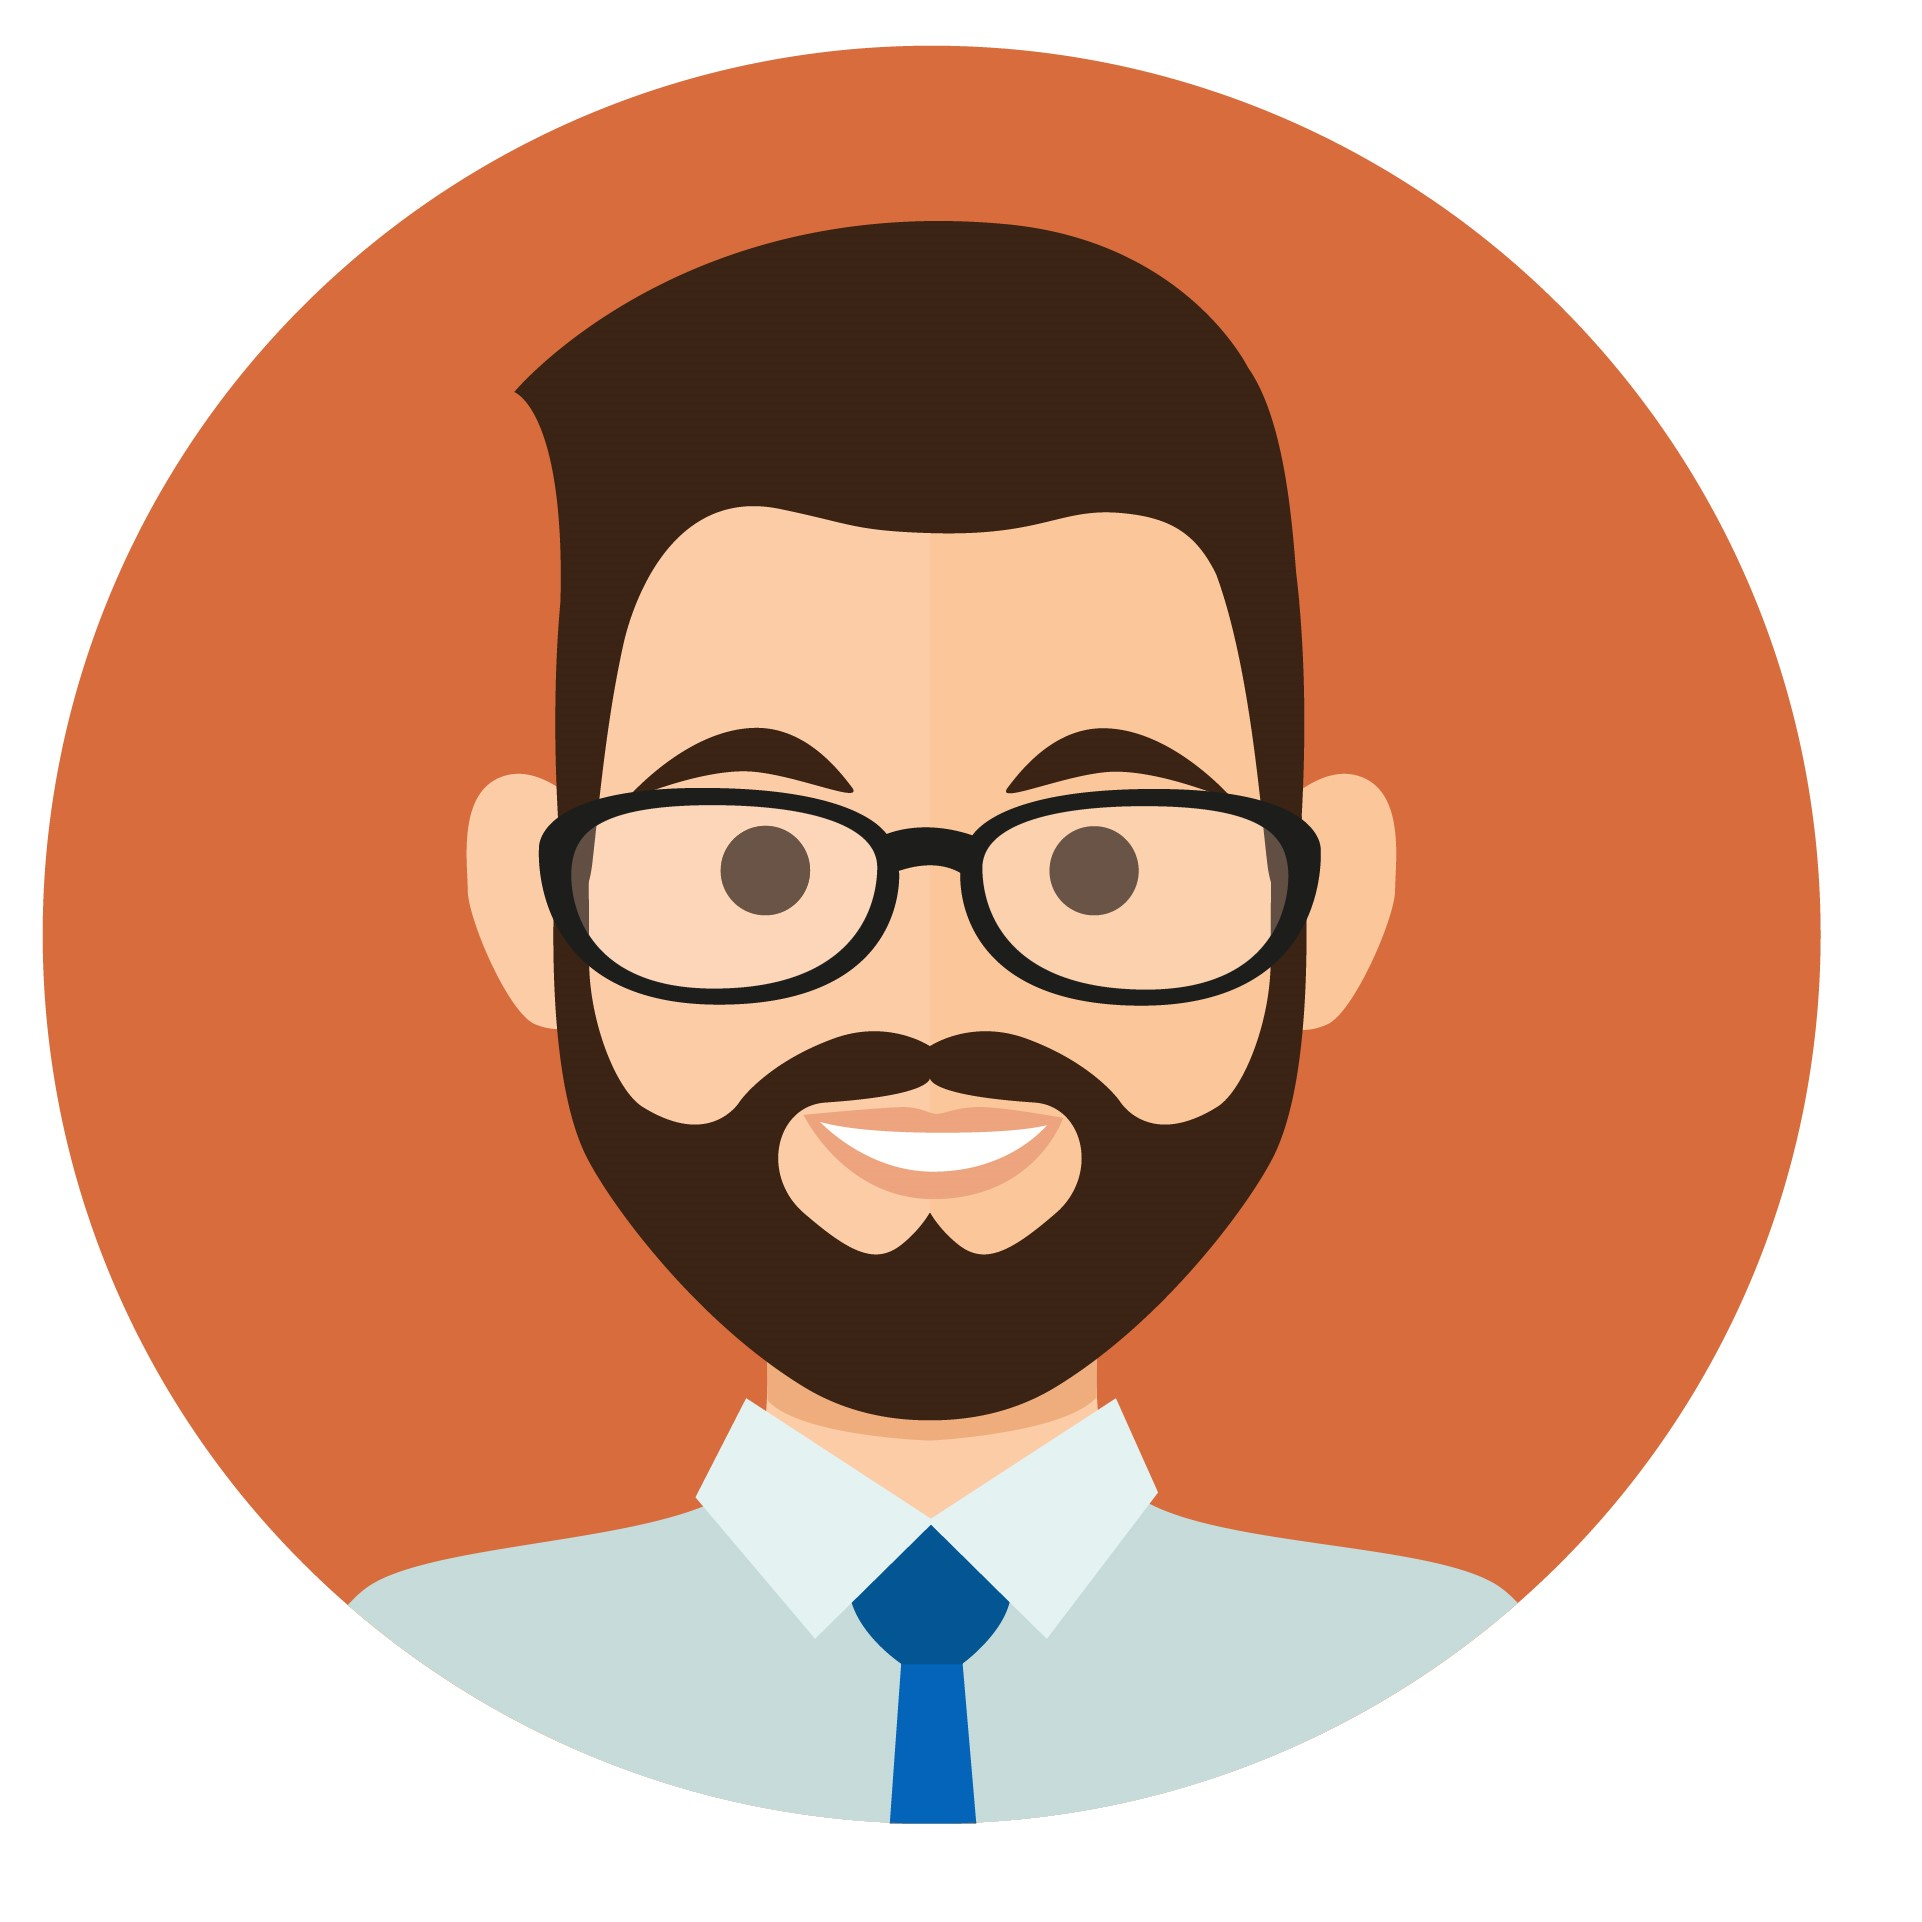
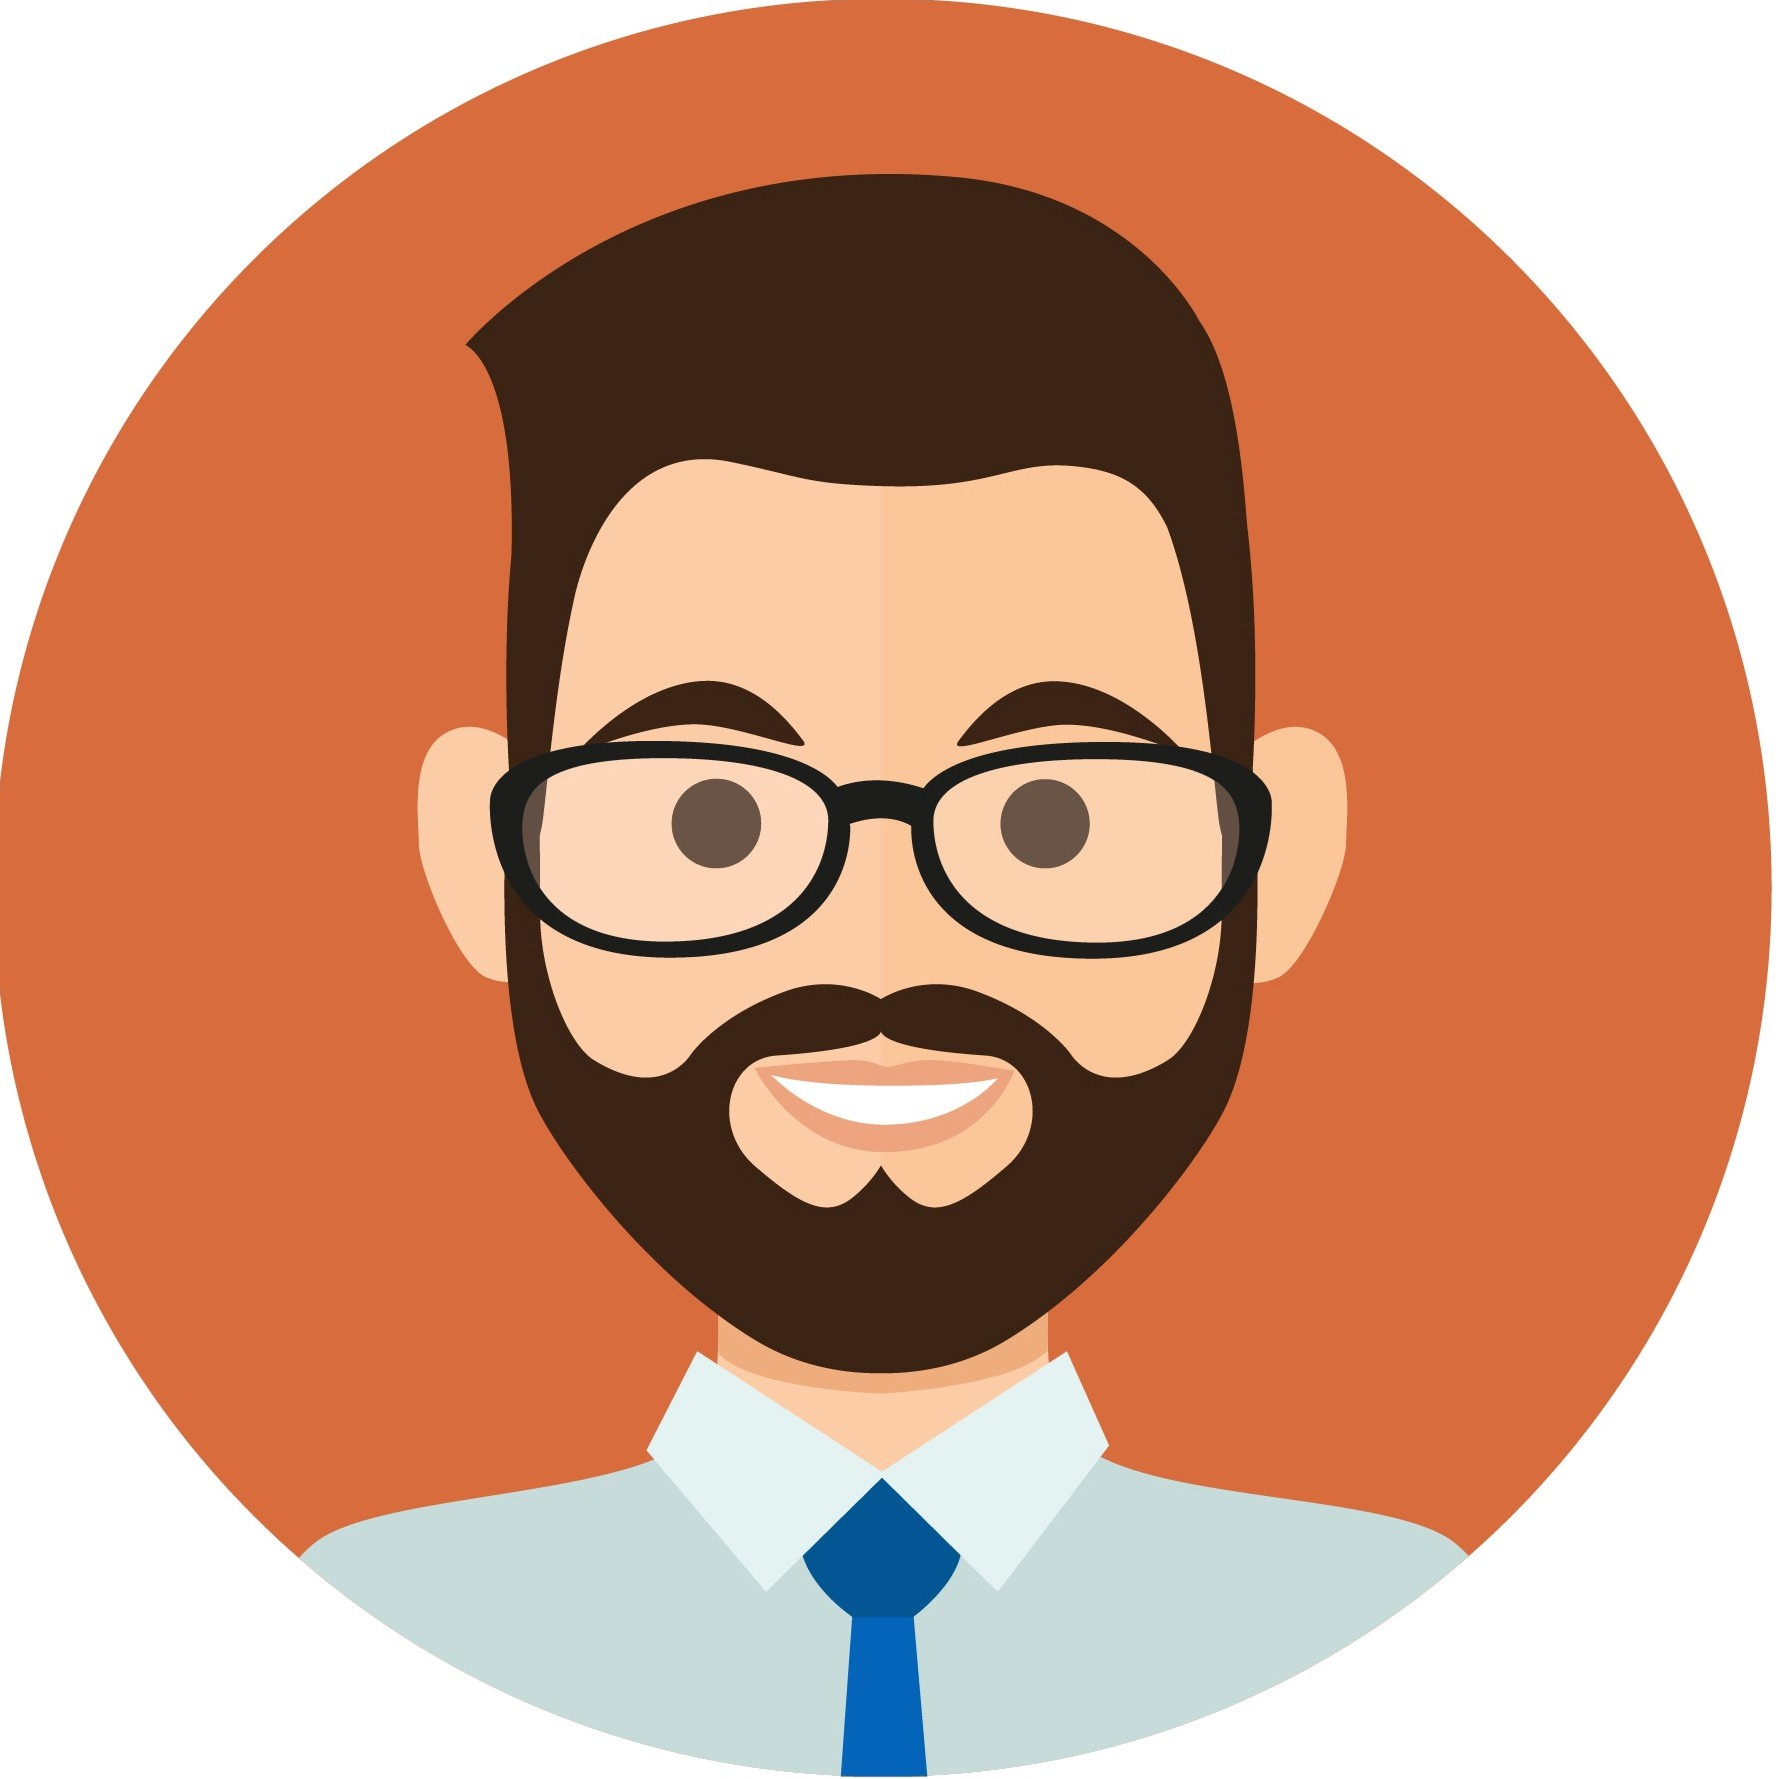
edited

diff --git a/src/layout/Layout.jsx b/src/layout/Layout.jsx
@@ -22,40 +22,39 @@ function Layout({ children }) {
       {children}
     </div>
   ) : (
-    <div className="min-h-screen flex flex-col justify-between">
-      <div>
+    <div className="min-h-screen flex flex-col justify-between overflow-x-hidden">
+      <div className="overflow-auto">
         <Header open={open} setOpen={setOpen} />
-        <div className={`flex relative min-h-screen size`}>
+
+        <div className="flex size">
           {/* hamburger menu */}
-          <div className="bg-bg_main min-h-screen transition-transform duration-300 ease-in-out rounded-lg my-2 mr-2">
-            <div className={`sticky top-0 overflow-auto flex flex-col h-fit mr-2`}>
+          <div className="bg-bg_main min-h-screen transition-all duration-300 ease-in-out rounded-lg my-2 mr-2">
+            <div className="flex flex-col h-fit">
               {userAttr().role === "ADMIN"
                 ? pageNames.map((item, index) => (
                     <Link key={index} to={item.path}>
-                      <h2
+                      <div
                         className={`${
                           location.pathname === item.path
                             ? "font-bold text-primary"
                             : "text-secondary"
                         } ${
-                          open ? "pl-20" : "pl-6"
-                        } p-4 cursor-pointer whitespace-nowrap transition duration-300 ease-in-out`}
+                          open ? "pl-12" : null
+                        } py-4 px-6 cursor-pointer whitespace-nowrap flex items-center gap-2 transition-all duration-300 ease-in-out`}
                       >
-                        {open ? (
-                          <div className="flex items-center gap-2">
-                            {/* icon */}
-                            {location.pathname === item.path
-                              ? item.actIcon
-                              : item.inactIcon}
-                            {item.name}
-                          </div>
-                        ) : // icon
-                        location.pathname === item.path ? (
-                          item.actIcon
-                        ) : (
-                          item.inactIcon
-                        )}
-                      </h2>
+                        {/* icon */}
+                        {location.pathname === item.path
+                          ? item.actIcon
+                          : item.inactIcon}
+
+                        <h2
+                          className={`transition-all duration-300 ease-in-out ${
+                            open ? "flex" : "hidden"
+                          }`}
+                        >
+                          {item.name}
+                        </h2>
+                      </div>
                     </Link>
                   ))
                 : pageNames
@@ -95,6 +94,7 @@ function Layout({ children }) {
           {children}
         </div>
       </div>
+      
       <Footer />
     </div>
   );

diff --git a/src/pages/SellProduct.jsx b/src/pages/SellProduct.jsx
@@ -142,7 +142,14 @@ function SellProduct() {
                   (product) => product.count > 0
                 )}
                 selectedOption={currProduct}
-                setSelectedOption={setCurrProduct}
+                setSelectedOption={(option) => {
+                  setCurrProduct(option);
+                  setInfoToSell({
+                    sellPrice: "",
+                    count: "",
+                    buyerInfo: null,
+                  });
+                }}
               />
             )}
 
@@ -230,7 +237,10 @@ function SellProduct() {
                 title="مشتریان"
                 options={buyersData?.data}
                 selectedOption={selectedCustomer}
-                setSelectedOption={setSelectedCustomer}
+                setSelectedOption={(option) => {
+                  setSelectedCustomer(option);
+                  setNewUser(null);
+                }}
               />
             )}
 
@@ -375,7 +385,10 @@ function SellProduct() {
                 { id: 3, name: "نقد" },
               ]}
               selectedOption={payMethod}
-              setSelectedOption={setPayMethod}
+              setSelectedOption={(option) => {
+                setPayMethod(option);
+                setConfirmerCode(null);
+              }}
             />
 
             {/* payment confirmer */}
@@ -419,7 +432,7 @@ function SellProduct() {
                 <div className="flex items-center gap-1">
                   <input
                     type="radio"
-                    name="type"
+                    name="settlement"
                     value="بلی"
                     onClick={() => setSettlement("بلی")}
                     checked={settlement === "بلی"}
@@ -430,7 +443,7 @@ function SellProduct() {
                 <div className="flex items-center gap-1">
                   <input
                     type="radio"
-                    name="type"
+                    name="settlement"
                     value="خیر"
                     onClick={() => setSettlement("خیر")}
                     checked={settlement === "خیر"}
@@ -471,7 +484,11 @@ function SellProduct() {
                   type="number"
                   value={discountPrice}
                   placeholder={100000}
-                  onChange={(e) => setDiscountPrice(+e.target.value)}
+                  onChange={(e) =>
+                    +e.target.value <= currProduct?.sell_price
+                      ? setDiscountPrice(+e.target.value)
+                      : setDiscountPrice(currProduct?.sell_price)
+                  }
                 />
               </div>
             </div>
@@ -499,7 +516,7 @@ function SellProduct() {
             </div>
           </div>
 
-          {/* product count */}
+          {/* total price */}
           <div className="flex items-center gap-2 w-fit">
             <label className="text-label_text">مبلغ قابل پرداخت</label>
             <div className="bg-bg_input p-2 rounded-lg">

diff --git a/src/pages/Users.jsx b/src/pages/Users.jsx
@@ -190,7 +190,7 @@ function Users() {
                         ) {
                           setSelectedUser({ op: "u", username: user.number });
                           setUser({ ...user });
-                          setSelRole(user.role)
+                          setSelRole(user.role);
                         } else {
                           setSelectedUser({
                             op: "a",
@@ -203,7 +203,7 @@ function Users() {
                             user_code: "",
                             role: "",
                           });
-                          setSelRole(null)
+                          setSelRole(null);
                         }
                       }}
                     >
@@ -439,9 +439,25 @@ function Users() {
           <div className="flex items-center justify-end">
             <button
               className={`bg-secondary rounded-lg w-32 h-12 font-bold text-white text-base flex items-center justify-center gap-4 ${
-                addUserPending || updateUserPending ? "opacity-75" : null
+                addUserPending ||
+                updateUserPending ||
+                !user.name ||
+                !user.number ||
+                !user.password ||
+                !user.user_code ||
+                !user.role
+                  ? "opacity-75"
+                  : null
               }`}
-              disabled={addUserPending || updateUserPending}
+              disabled={
+                addUserPending ||
+                updateUserPending ||
+                !user.name ||
+                !user.number ||
+                !user.password ||
+                !user.user_code ||
+                !user.role
+              }
               onClick={opUserClickHandler}
             >
               {selectedUser.op === "a"

diff --git a/src/components/Header.jsx b/src/components/Header.jsx
@@ -3,10 +3,11 @@ import { toast } from "react-hot-toast";
 import { Link, useNavigate } from "react-router-dom";
 
 // icons
-import profile from "../assets/03.jpg";
+import profile from "../assets/prof-icon2.png";
 
 // utils
 import { clearCookie } from "../utils/cookie";
+import { userAttr } from "../utils/userAttr";
 
 function Header({ open, setOpen }) {
   const navigate = useNavigate();
@@ -25,7 +26,7 @@ function Header({ open, setOpen }) {
     <header className="bg-secondary">
       <header className="flex items-center justify-between pl-8 size">
         {/* profile */}
-        <div className="flex items-center gap-4">
+        <div className="flex items-center gap-4 py-2">
           <div className="flex items-center gap-4 border-none p-2">
             {/* Hamburger Icon */}
             <button
@@ -52,11 +53,15 @@ function Header({ open, setOpen }) {
           </div>
 
           <img
-            className="w-14 rounded-full object-cover cursor-pointer my-2"
+            className="w-14 h-14 rounded-full object-cover cursor-pointer"
             src={profile}
             alt="profile"
             onClick={logOut}
           />
+
+          <h5 className="text-base text-white">
+           {userAttr().name}
+          </h5>
         </div>
 
         {/* logo */}

diff --git a/src/main.jsx b/src/main.jsx
@@ -1,26 +1,14 @@
 import ReactDOM from "react-dom/client";
 import { BrowserRouter } from "react-router-dom";
-import Parse from "parse/dist/parse.js";
+
+// app
 import App from "./App.jsx";
+
+// style
 import "./index.css";
-
-// redux
-import { Provider } from "react-redux";
-
-// store
-import store from "./app/store.js";
-
-// Your Parse initialization configuration goes here
-const PARSE_APPLICATION_ID = "cyCKVShT1mBkI7tulQU8NYZoSyHKisMM9t7X7JbI";
-const PARSE_HOST_URL = "https://parseapi.back4app.com/";
-const PARSE_JAVASCRIPT_KEY = "9SaAlRUukpsLgSh5oE0tU432VLbX6zzjSKkjUXSh";
-Parse.initialize(PARSE_APPLICATION_ID, PARSE_JAVASCRIPT_KEY);
-Parse.serverURL = PARSE_HOST_URL;
 
 ReactDOM.createRoot(document.getElementById("root")).render(
   <BrowserRouter>
-    <Provider store={store}>
-      <App />
-    </Provider>
+    <App />
   </BrowserRouter>
 );

diff --git a/src/pages/SoldProductsPage.jsx b/src/pages/SoldProductsPage.jsx
@@ -153,9 +153,6 @@ function SoldProductsPage() {
     changeScrollBarState(showPaymentDetails);
   }, [showPaymentDetails]);
 
-  console.log(editSoldProduct);
-  console.log(soldProducts);
-
   return (
     <>
       <div className={`flex flex-col gap-6 p-8 w-full`}>

diff --git a/src/router/Router.jsx b/src/router/Router.jsx
@@ -1,4 +1,3 @@
-// import { useEffect, useState } from "react";
 import { Navigate, Route, Routes } from "react-router-dom";
 
 // pages
